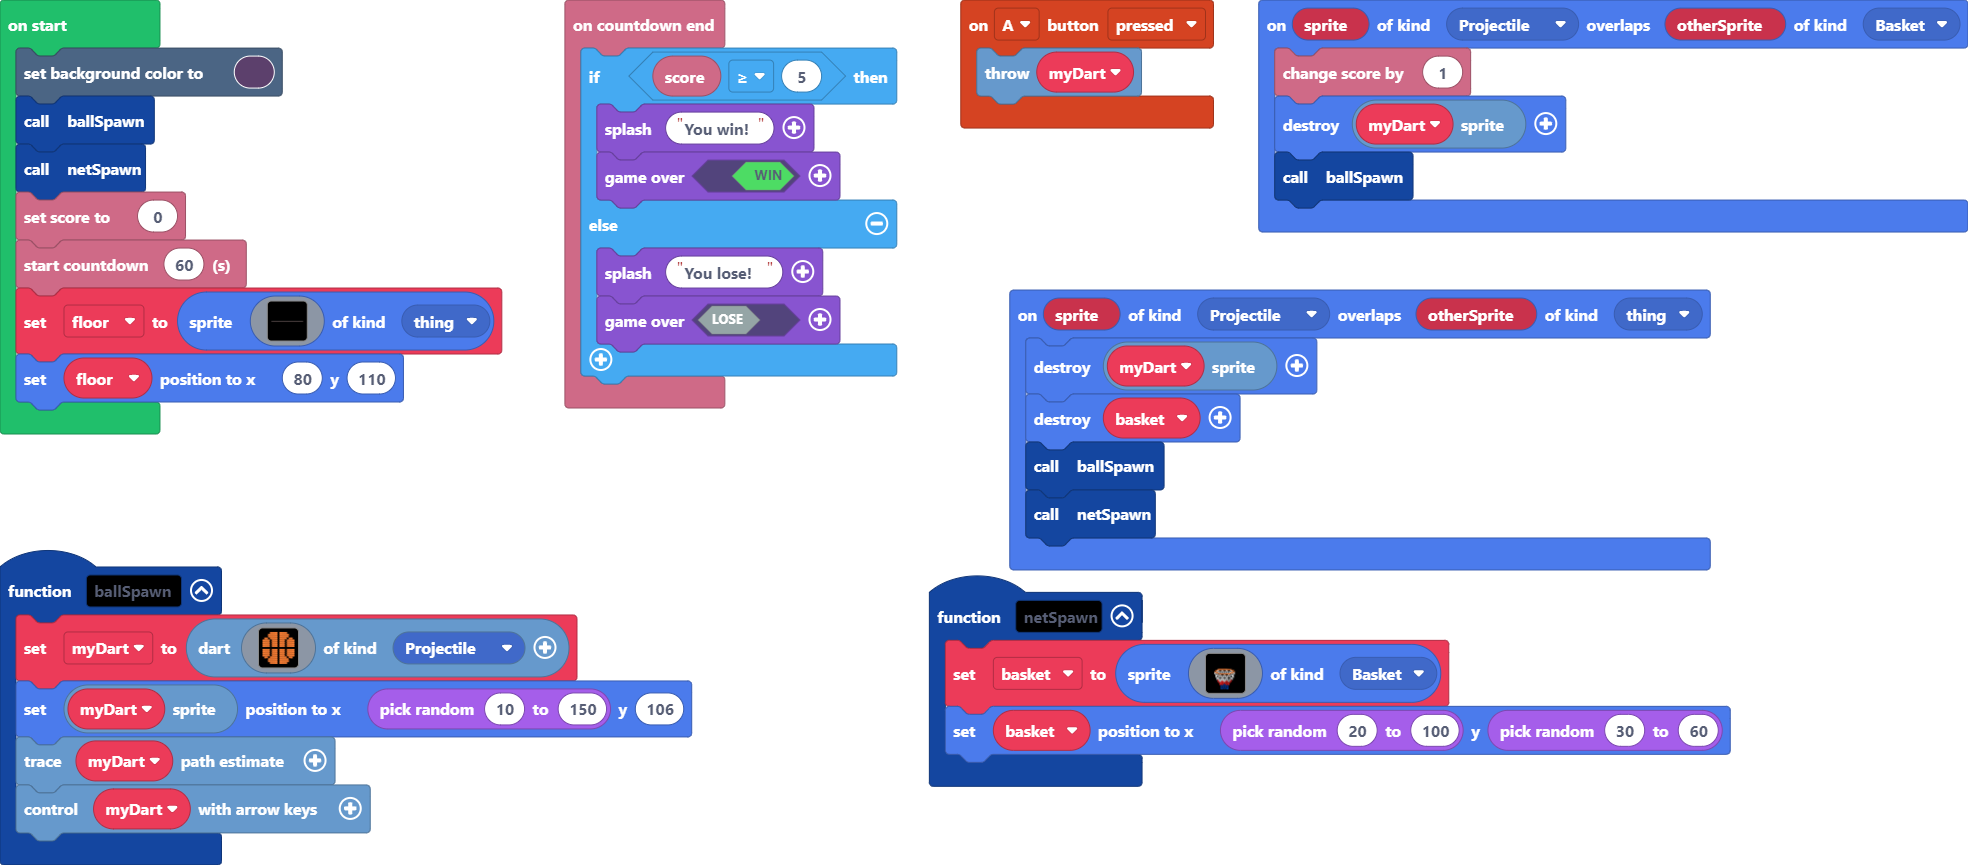
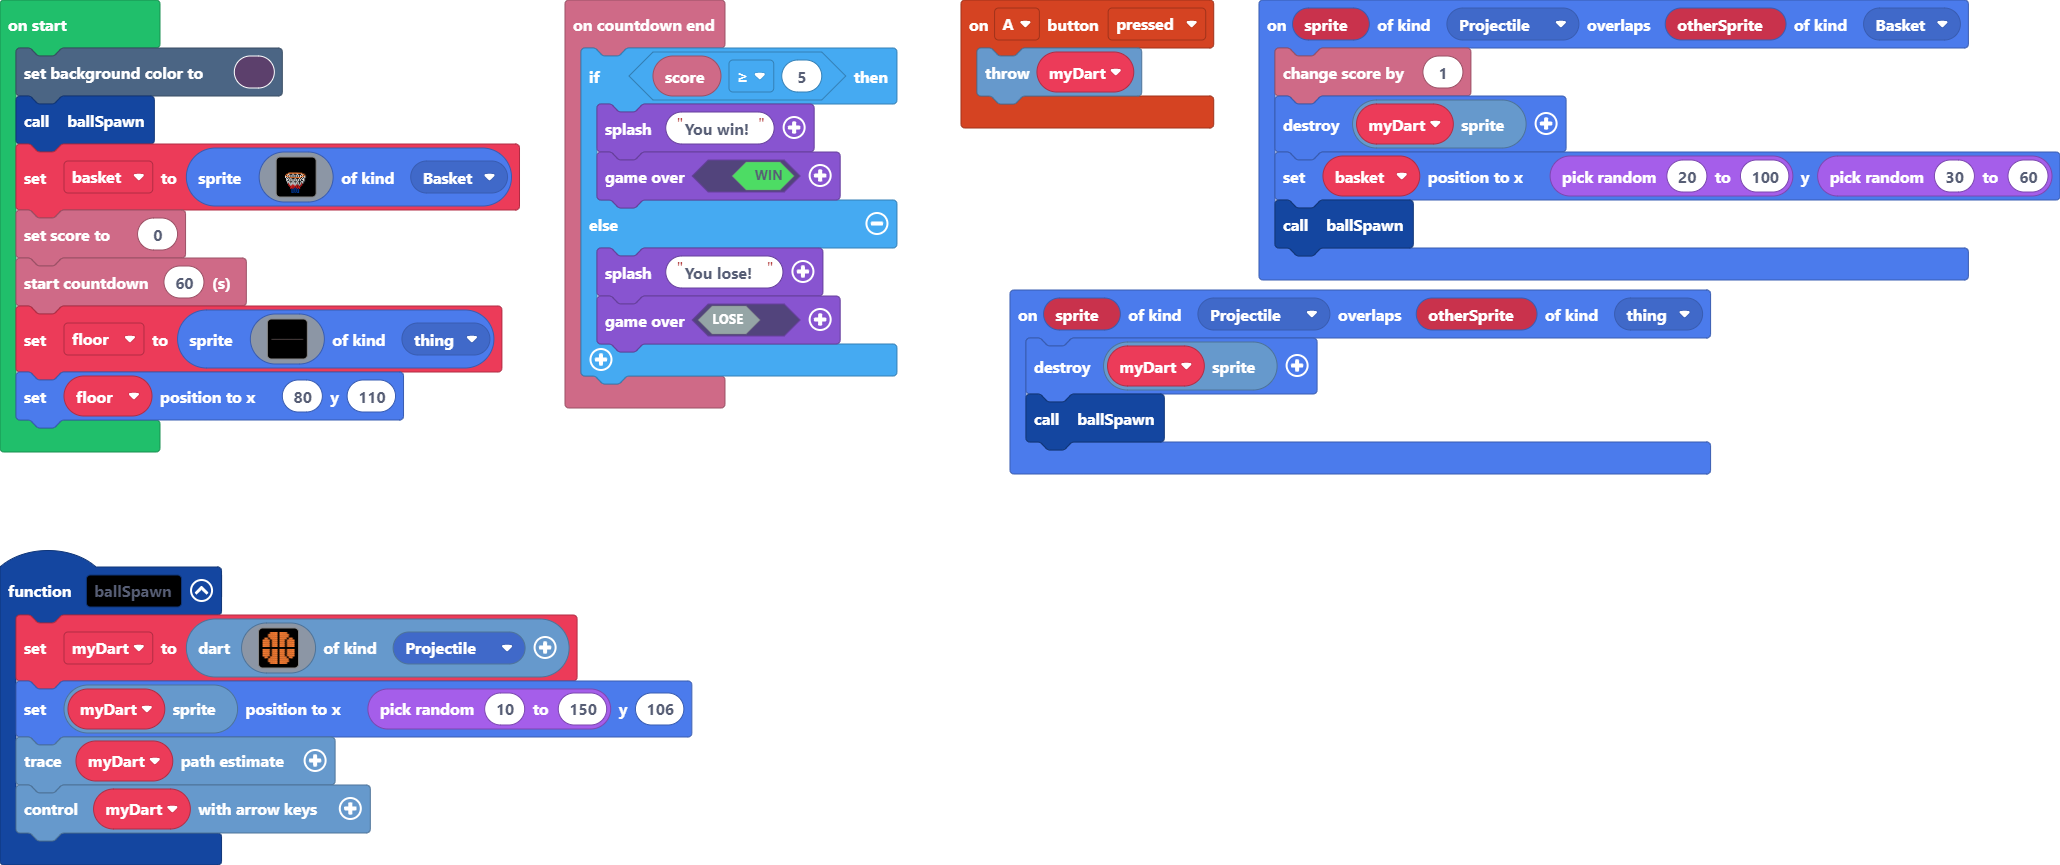
Update main.blocks, main.ts

diff --git a/main.ts b/main.ts
@@ -38,57 +38,52 @@ function ballSpawn () {
     myDart.setTrace()
     myDart.controlWithArrowKeys()
 }
-function netSpawn () {
-    basket = sprites.create(img`
-        ...................
-        ...................
-        ...................
-        ...................
-        ...................
-        ...................
-        ...................
-        ...................
-        ...................
-        ...................
-        ...................
-        ...4444444444444...
-        .441...1...1...144.
-        4.1.1.1.1.1.1.1.1.4
-        14441.1.1.1.1.14441
-        1.1.44444444444.1.1
-        .1.1.1...1...1.1.1.
-        .11.1.1.1.1.1.1.11.
-        .1..1.1.1.1.1.1..1.
-        ..11...1...1...11..
-        ..1.1.1.1.1.1.1.1..
-        ...21.1.1.1.1.12...
-        ...2.1.2.1.2.1.2...
-        ....2.2.2.2.2.2....
-        .....22.2.2.22.....
-        .....2.2.8.2.2.....
-        ......8.8.8.8......
-        ......8.8.8.8......
-        ......8.8.8.8......
-        ......88.8.88......
-        `, SpriteKind.Basket)
-    basket.setPosition(randint(20, 100), randint(30, 60))
-}
 sprites.onOverlap(SpriteKind.Projectile, SpriteKind.Basket, function (sprite, otherSprite) {
     info.changeScoreBy(1)
     myDart.sprite.destroy()
+    basket.setPosition(randint(20, 100), randint(30, 60))
     ballSpawn()
 })
 sprites.onOverlap(SpriteKind.Projectile, SpriteKind.thing, function (sprite, otherSprite) {
     myDart.sprite.destroy()
-    basket.destroy()
     ballSpawn()
-    netSpawn()
 })
-let basket: Sprite = null
 let myDart: Dart = null
+let basket: Sprite = null
 scene.setBackgroundColor(12)
 ballSpawn()
-netSpawn()
+basket = sprites.create(img`
+    ...................
+    ...................
+    ...................
+    ...................
+    ...................
+    ...................
+    ...................
+    ...................
+    ...................
+    ...................
+    ...................
+    ...4444444444444...
+    .441...1...1...144.
+    4.1.1.1.1.1.1.1.1.4
+    14441.1.1.1.1.14441
+    1.1.44444444444.1.1
+    .1.1.1...1...1.1.1.
+    .11.1.1.1.1.1.1.11.
+    .1..1.1.1.1.1.1..1.
+    ..11...1...1...11..
+    ..1.1.1.1.1.1.1.1..
+    ...21.1.1.1.1.12...
+    ...2.1.2.1.2.1.2...
+    ....2.2.2.2.2.2....
+    .....22.2.2.22.....
+    .....2.2.8.2.2.....
+    ......8.8.8.8......
+    ......8.8.8.8......
+    ......8.8.8.8......
+    ......88.8.88......
+    `, SpriteKind.Basket)
 info.setScore(0)
 info.startCountdown(60)
 let floor = sprites.create(img`
